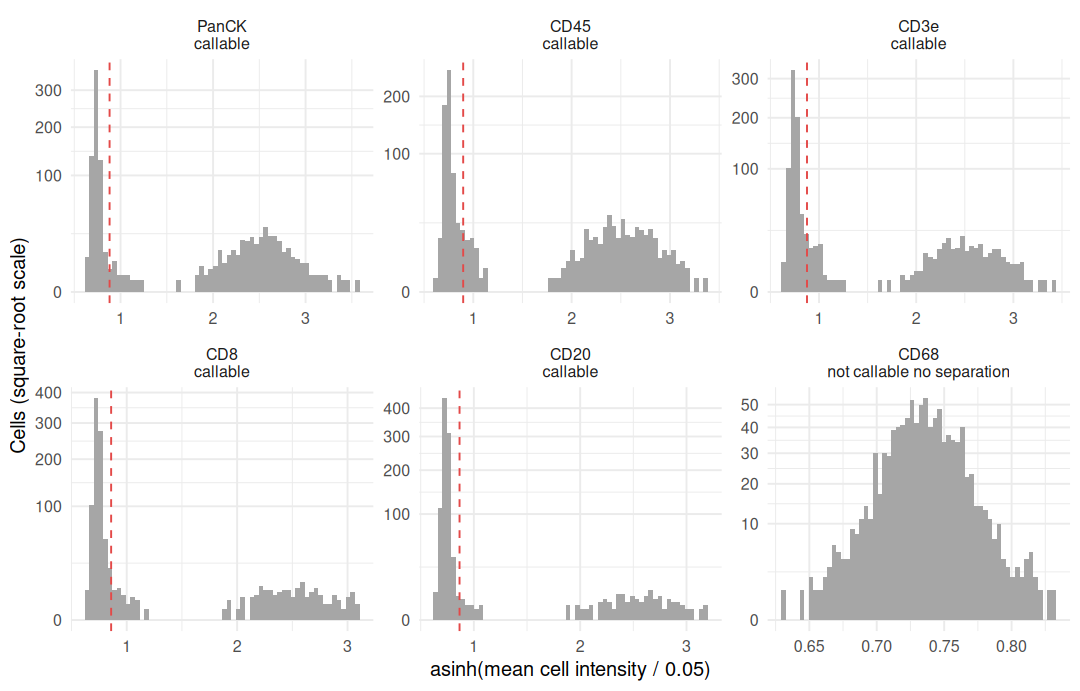
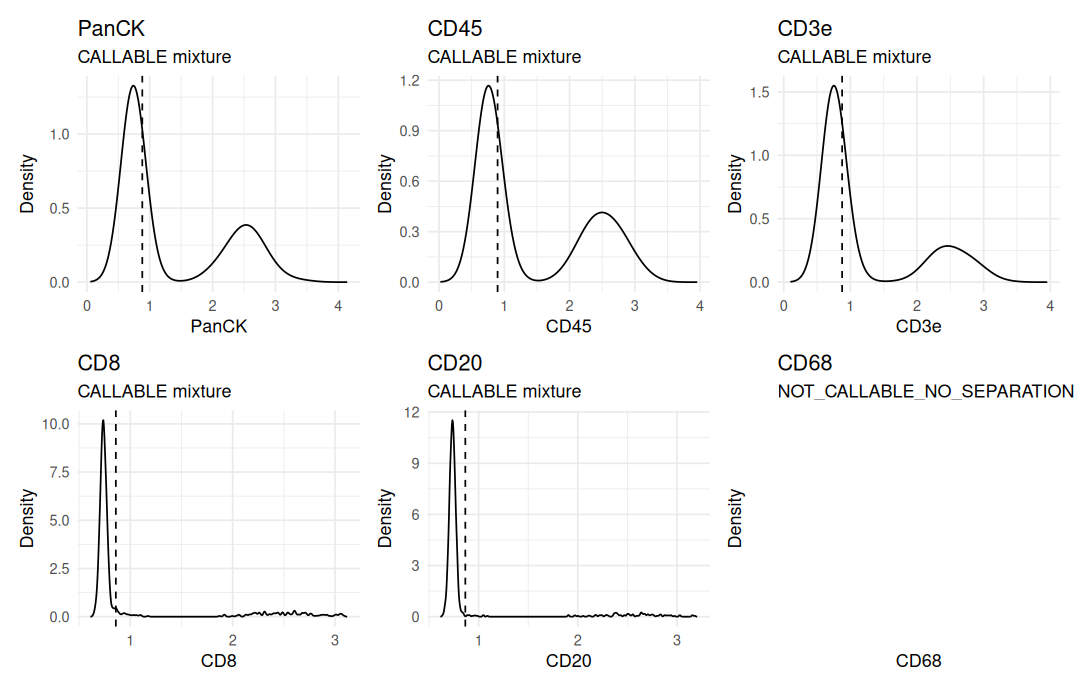
Use gatekeepR's own density plot in the spatial walkthrough
gatekeepR's plot helpers draw again (gatekeepR c4ae68e), so the gating
step shows gk_plot_density() for each marker instead of a hand-built
histogram. Re-rendered with gatekeepR at 64be151; the other figures are
unchanged.

diff --git a/content/projects/spatial-tissue-phenotyping/index.md b/content/projects/spatial-tissue-phenotyping/index.md
@@ -402,27 +402,18 @@ as.data.frame(thresholds)[, c("marker", "method", "status", "estimate")]
 
 
 ``` r
-cut <- as.data.frame(thresholds)
-cut$marker <- factor(cut$marker, levels = markers)
-strip <- setNames(paste0(cut$marker, "\n", gsub("_", " ", tolower(cut$status))),
-                  cut$marker)
-score <- data.frame(
-  marker = factor(rep(colnames(prepared$score), each = nrow(prepared$score)),
-                  levels = markers),
-  value = as.vector(prepared$score))
-ggplot(score, aes(value)) +
-  geom_histogram(bins = 60, fill = "grey65") +
-  geom_vline(data = cut, aes(xintercept = estimate), linetype = 2,
-             colour = "#e34948", na.rm = TRUE) +
-  facet_wrap(~ marker, scales = "free", nrow = 2, labeller = as_labeller(strip)) +
-  scale_y_sqrt() +
-  labs(x = "asinh(mean cell intensity / 0.05)", y = "Cells (square-root scale)") +
-  theme_minimal(base_size = 10)
+image <- unique(prepared$cells$image_id)
+density_plots <- lapply(markers, function(m) {
+  gk_plot_density(thresholds, m, image) +
+    labs(title = m, caption = NULL) +
+    theme_minimal(base_size = 9)
+})
+patchwork::wrap_plots(density_plots, nrow = 2)
 ```
 
 <div class="figure" style="text-align: center">
-<img src="figures/thresholds-plot-1.png" alt="Histograms of the transformed mean intensity of each marker with the gatekeepR cut as a dashed line" width="100%" />
-<p class="caption">gatekeepR cuts (dashed) on the transformed signal. Five markers split into negative and positive cells; CD68 has no positive group and gets no cut.</p>
+<img src="figures/thresholds-plot-1.png" alt="gatekeepR density plots of the transformed mean intensity of each marker, with the gatekeepR cut as a dashed line" width="100%" />
+<p class="caption">gatekeepR's density plot for each marker, with its cut (dashed). Five markers split into negative and positive cells. CD68 has no positive group, so gatekeepR reports it as not callable, fits no density and sets no cut; its panel stays empty.</p>
 </div>
 
 gatekeepR then classifies every cell. The macrophage rule needs CD68, so it is
@@ -708,6 +699,6 @@ data.frame(package = pkgs,
 #> 1  phenoloom   0.1.1 16dae1ee98b1701bd15c10d3a09860fbc635a1f3
 #> 2   segmantR   0.2.0 882c2fb7fe0546f71f6f11bbfd3de6103859b098
 #> 3  cellspecR   1.1.0 bd940f1baf937cd6a78f8741193ac419d34c712b
-#> 4  gatekeepR   1.0.0 9514a37b688f2dc3abecfaf0e0153a0e0835bb91
+#> 4  gatekeepR   1.0.0 64be151325ce36e6ff5fd1c576f341c96c69f1c2
 #> 5 phenoscapR   0.2.0 d5959bd538374648ddb4207f8c54171ac48ebc32
 ```
